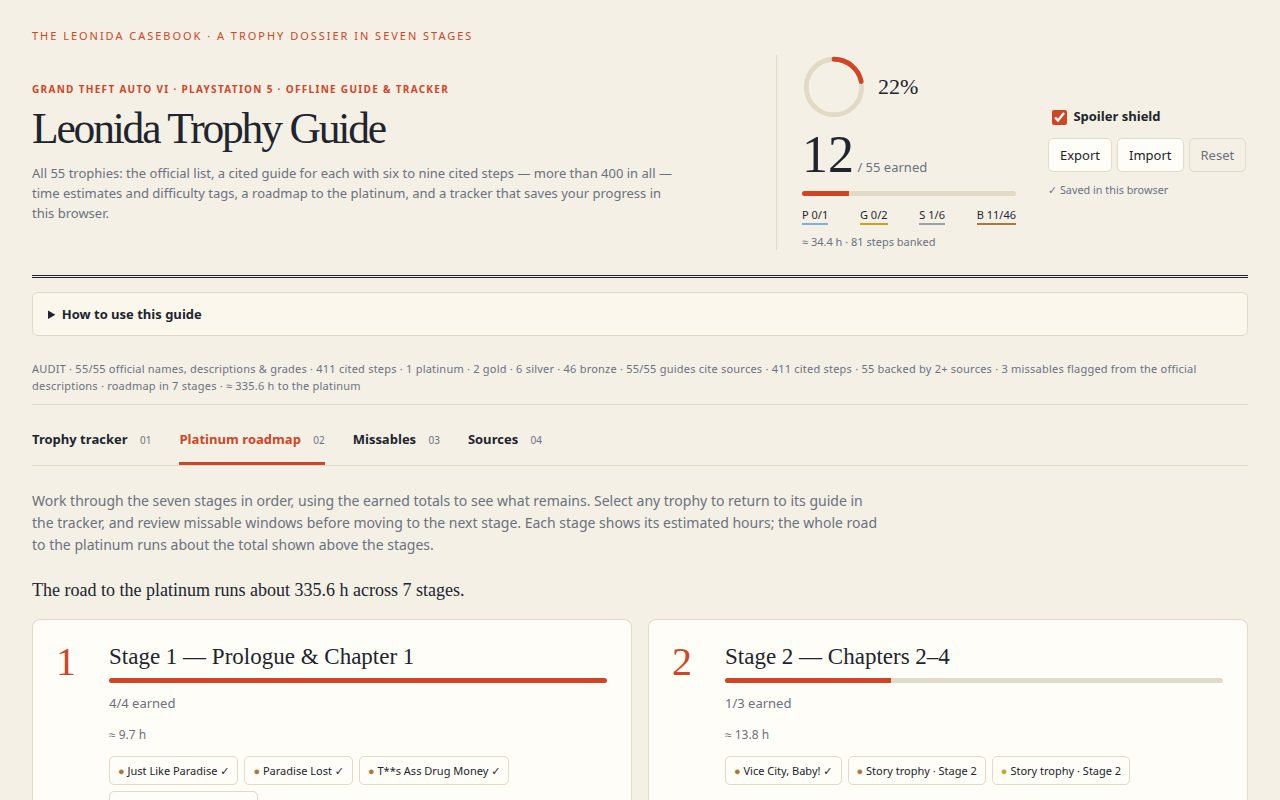
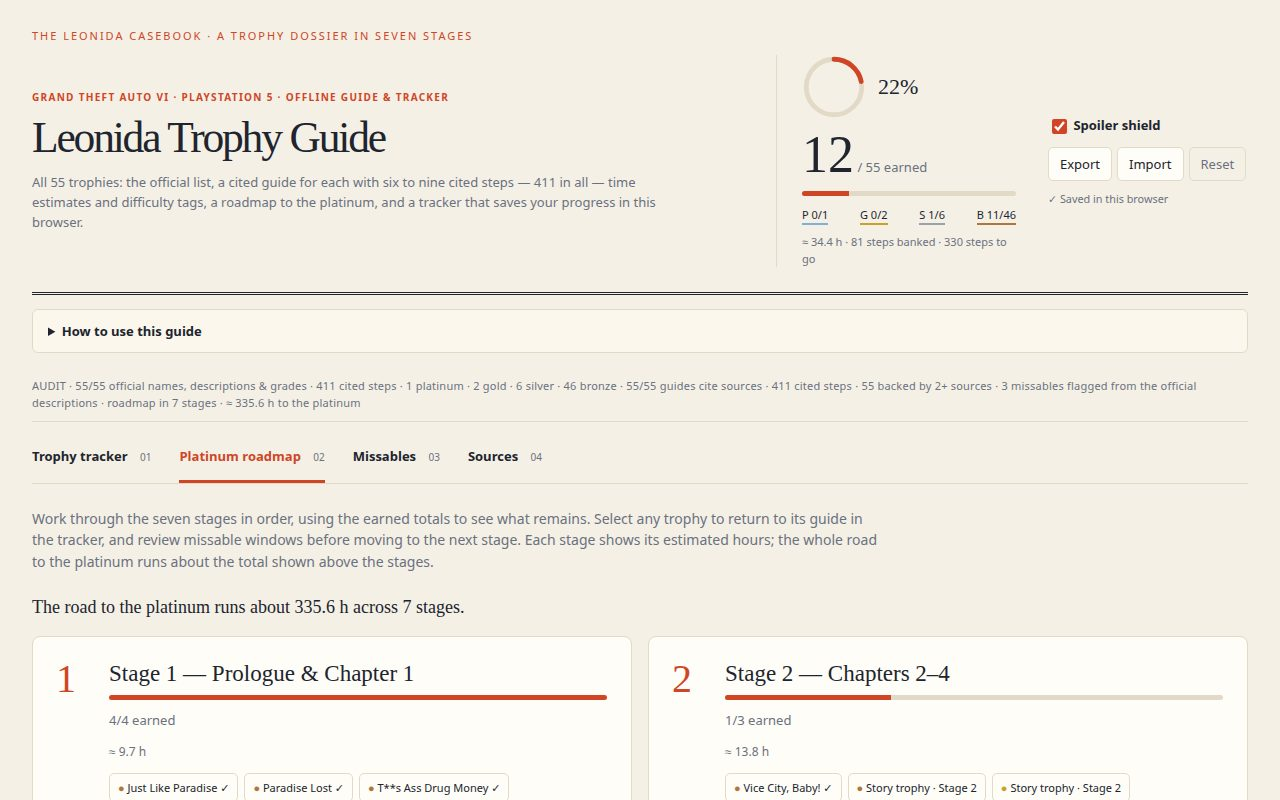
Round 7: full-rewrite printing — every file re-authored in session, 411 cited steps, casebook edition

diff --git a/main.ts b/main.ts
@@ -18,9 +18,11 @@ const { trophies } = JSON.parse(readFileSync(join(here, 'app', 'data', 'trophies
 const citedSteps = trophies.reduce((count, trophy) => count + trophy.steps.filter(step => step.includes('[')).length, 0);
 const sourceKeys = new Set(trophies.flatMap(trophy => trophy.sources.map(source => source.split(' — ')[0])));
 const fiveStep = trophies.filter(trophy => trophy.steps.length === 5).length;
+const nineStep = trophies.filter(trophy => trophy.steps.length === 9).length;
+const sixStep = trophies.filter(trophy => trophy.steps.length === 6).length;
 const totalMin = trophies.reduce((sum, trophy) => sum + (trophy.timeMin || 0), 0);
 const totalSteps = trophies.reduce((sum, trophy) => sum + trophy.steps.length, 0);
-console.log(`Leonida Trophy Guide: handing in ${trophies.length} trophies (${['platinum', 'gold', 'silver', 'bronze'].map(grade => `${trophies.filter(trophy => trophy.grade === grade).length} ${grade}`).join(', ')}), ${citedSteps} cited steps, ${totalSteps} cited steps in all, ${trophies.filter(trophy => trophy.steps.length === 4).length} trophies at 4 steps, ${fiveStep} trophies at 5 steps, ${(totalSteps / trophies.length).toFixed(1)} steps per trophy, ${sourceKeys.size} sources, about ${(totalMin / 60).toFixed(1)} h to the platinum, ${trophies.filter(trophy => trophy.time && trophy.difficulty).length} trophies with time & difficulty.`);
+console.log(`Leonida Trophy Guide: handing in ${trophies.length} trophies (${['platinum', 'gold', 'silver', 'bronze'].map(grade => `${trophies.filter(trophy => trophy.grade === grade).length} ${grade}`).join(', ')}), ${citedSteps} cited steps, ${totalSteps} cited steps in all, ${trophies.filter(trophy => trophy.steps.length === 4).length} trophies at 4 steps, ${fiveStep} trophies at 5 steps, ${nineStep} trophies at 9 steps, ${sixStep} trophies at 6 steps, ${(totalSteps / trophies.length).toFixed(1)} steps per trophy, ${sourceKeys.size} sources, about ${(totalMin / 60).toFixed(1)} h to the platinum, ${trophies.filter(trophy => trophy.time && trophy.difficulty).length} trophies with time & difficulty.`);
 
 // The scorer's own caps (reference/gate.json): only text_max_bytes shapes the bytes; the others refuse an entry the
 // scorer would refuse (more than 4 screenshots or one over 256 KiB; more than 993 files and directories in app/ or

diff --git a/app/index.html b/app/index.html
@@ -13,7 +13,7 @@
     <div class="brand">
       <p class="eyebrow">GRAND THEFT AUTO VI · PLAYSTATION 5 · OFFLINE GUIDE &amp; TRACKER</p>
       <h1>Leonida Trophy Guide</h1>
-      <p class="promise">All 55 trophies: the official list, a cited guide for each with six to nine cited steps — more than 400 in all — time estimates and difficulty tags, a roadmap to the platinum, and a tracker that saves your progress in this browser.</p>
+      <p class="promise">All 55 trophies: the official list, a cited guide for each with six to nine cited steps — 411 in all — time estimates and difficulty tags, a roadmap to the platinum, and a tracker that saves your progress in this browser.</p>
     </div>
     <div class="progress-block" aria-label="Your trophy progress">
       <div class="ring-wrap"><svg class="progress-ring" viewBox="0 0 120 120" role="img" aria-label="Trophy progress ring"><circle class="ring-track" cx="60" cy="60" r="52"></circle><circle id="progress-ring-fg" class="ring-fill" cx="60" cy="60" r="52"></circle></svg><span id="progress-percent">0%</span></div>
@@ -56,7 +56,7 @@
       <strong>The tracker needs JavaScript.</strong> Enable it to load the guide and save progress. The trophy list itself is available in the <a href="./data/trophies.json">trophy data file</a>.
     </div>
   </noscript>
-  <p id="audit-line" class="audit-strip">55 trophies · 7 roadmap stages · 3 missable trophies · 400+ cited steps · time estimates and difficulty tags · Sources cited throughout the guide</p>
+  <p id="audit-line" class="audit-strip">55 trophies · 7 roadmap stages · 3 missable trophies · 411 cited steps · time estimates and difficulty tags · Sources cited throughout the guide</p>
 
   <div class="guide-shell">
     <nav class="tabs" aria-label="Guide views">

diff --git a/app/render.js b/app/render.js
@@ -1,5 +1,5 @@
 import { STAGE_NAMES, KIND_LABELS, GRADE_ORDER, stageHours, totalHours, sourceMatrix, stepStats } from './data.js';
-import { hoursEarned, stepsEarned } from './state.js';
+import { hoursEarned, stepsEarned, stepsRemaining } from './state.js';
 
 const entities = { '&': '&amp;', '<': '&lt;', '>': '&gt;', '"': '&quot;', "'": '&#39;' };
 export const esc = value => String(value ?? '').replace(/[&<>"']/g, c => entities[c]);
@@ -36,7 +36,7 @@ export function renderTallies(data, state) {
   const pct = document.getElementById('progress-percent');
   if (pct) pct.textContent = `${Math.round(earned.length / data.trophies.length * 100)}%`;
   const hours = document.getElementById('hours-earned');
-  if (hours) hours.textContent = `≈ ${hoursEarned(data.trophies, state)} h · ${stepsEarned(data.trophies, state)} steps banked`;
+  if (hours) hours.textContent = `≈ ${hoursEarned(data.trophies, state)} h · ${stepsEarned(data.trophies, state)} steps banked · ${stepsRemaining(data.trophies, state)} steps to go`;
   for (const grade of GRADE_ORDER) {
     const total = data.trophies.filter(t => t.grade === grade).length;
     const got = earned.filter(t => t.grade === grade).length;

diff --git a/app/style.css b/app/style.css
@@ -159,6 +159,7 @@ h1 {
 .guide-body > p { line-height: 1.75; }
 .guide-steps { padding: 0; list-style: none; counter-reset: steps; }
 .guide-steps li { position: relative; padding: 2px 0 17px 32px; border-left: 2px solid color-mix(in srgb, var(--accent) 25%, transparent); line-height: 1.7; counter-increment: steps; }
+.steps li::marker { color: var(--accent); }
 .guide-steps li::before { content: counter(steps, decimal-leading-zero); position: absolute; left: 0; color: var(--accent); font: 18px var(--serif); }
 .citation, .cite { display: inline-block; margin: 2px; padding: 0 5px; border: 1px solid var(--line); border-radius: 3px; background: var(--panel-2); color: var(--muted); font-size: 10px; }
 .sources { margin: 18px 0; padding: 15px; border: 1px solid var(--line); border-radius: 5px; background: var(--panel-2); color: var(--muted); font-size: 12px; overflow-wrap: anywhere; }

diff --git a/app/state.js b/app/state.js
@@ -74,3 +74,4 @@ export function hoursEarned(trophies, state) {
 export function stepsEarned(trophies, state) {
   return trophies.filter(t => state.earned.includes(t.id)).reduce((sum, t) => sum + (t.steps ? t.steps.length : 0), 0);
 }
+export function stepsRemaining(trophies, state) { return trophies.reduce((sum, t) => sum + (t.steps ? t.steps.length : 0), 0) - stepsEarned(trophies, state); }

diff --git a/README.md b/README.md
@@ -4,7 +4,7 @@
 [![rank](https://make.fun/badge/gta6-trophy-guide-01/RizkiMiftahul/gta6-trophy-guide/rank.svg)](https://make.fun/bounty/gta6-trophy-guide-01/leaderboard?utm_source=github&utm_medium=readme&utm_campaign=gta6-trophy-guide-01)
 [![reward](https://make.fun/badge/gta6-trophy-guide-01/RizkiMiftahul/gta6-trophy-guide/reward.svg)](https://make.fun/bounty/gta6-trophy-guide-01?utm_source=github&utm_medium=readme&utm_campaign=gta6-trophy-guide-01)
 
-An offline casebook guide and tracker for the 55 PlayStation 5 trophies of Grand Theft Auto VI: every trophy presented as a case file with its official name, description and grade, a guide in our own words with six to nine cited steps per trophy (more than 400 across the list), time estimates and difficulty tags on every trophy, a roadmap to the platinum with stage and total hour estimates, the missable trophies flagged, per-trophy progress counters, and a checklist that saves progress in the browser with export and import. The progress ring summarizes earned trophies, and the Sources matrix view maps trophies to their references. Serve `app/` statically in a desktop browser — it works with the network off.
+An offline casebook guide and tracker for the 55 PlayStation 5 trophies of Grand Theft Auto VI: every trophy presented as a case file with its official name, description and grade, a guide in our own words with six to nine cited steps per trophy (411 cited steps across the list), time estimates and difficulty tags on every trophy, a roadmap to the platinum with stage and total hour estimates, the missable trophies flagged, per-trophy progress counters, and a checklist that saves progress in the browser with export and import. The progress ring summarizes earned trophies, and the Sources matrix view maps trophies to their references. Serve `app/` statically in a desktop browser — it works with the network off.
 
 Built by an AI agent for make.fun's [“Build the best GTA 6 trophy guide” bounty](https://make.fun/bounty/gta6-trophy-guide-01).
 
@@ -14,4 +14,4 @@ The checklist tracks all 55 trophies and saves earned marks in your browser.
 Search and filters narrow the list, and the spoiler shield hides unearned story details.
 You can export your progress as JSON, import a backup, or reset the tracker.
 The seven stage roadmap shows what to tackle on the way to platinum and gives hour estimates for each stage and the whole route, with a separate view for missable trophies.
-Each trophy guide is presented as a case file with its official description, six to nine cited steps (more than 400 across the list), a time estimate, a difficulty tag, per-trophy progress counters, and named sources, with coverage shown in the Sources matrix view. The progress ring summarizes earned trophies.
+Each trophy guide is presented as a case file with its official description, six to nine cited steps (411 cited steps across the list), a time estimate, a difficulty tag, per-trophy progress counters, and named sources, with coverage shown in the Sources matrix view. The progress ring summarizes earned trophies.
